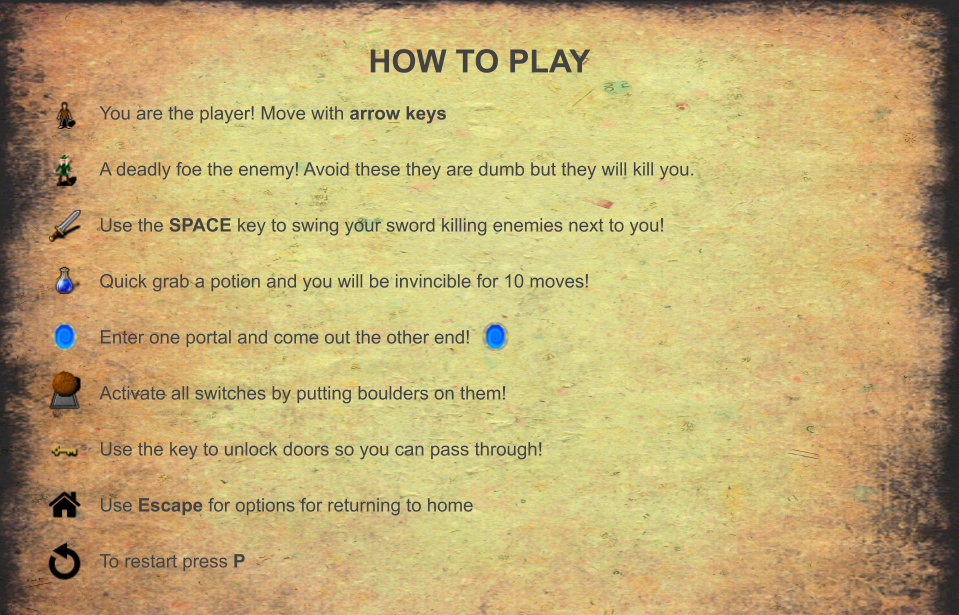
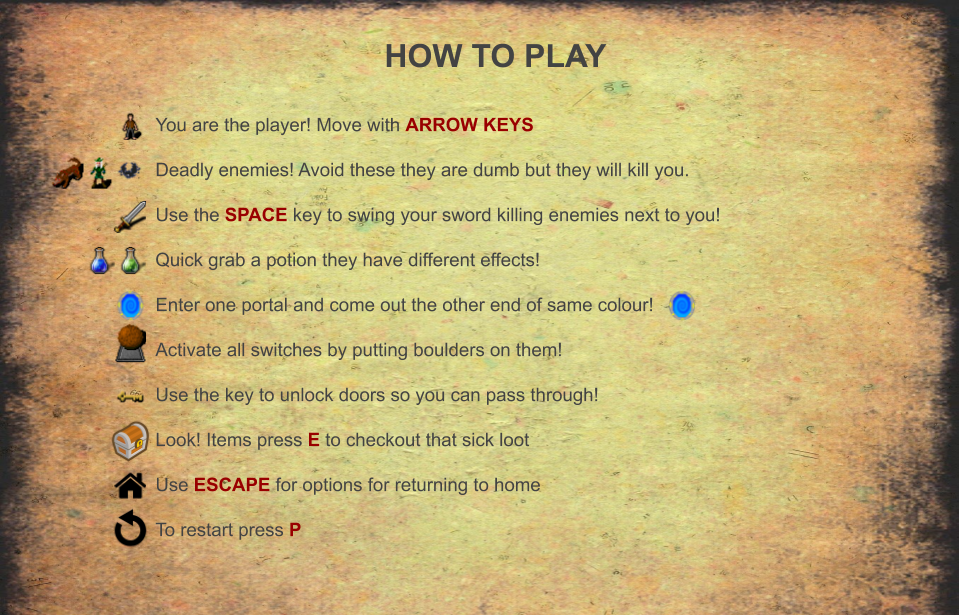
added a key game

diff --git a/src/unsw/dungeon/menu/StartMenu.java b/src/unsw/dungeon/menu/StartMenu.java
@@ -248,7 +248,40 @@ public class StartMenu extends Parent {
             dungeonApplication.setCurrentScene("boulders");
         });
 
-        
+        MenuButton btnKeysGame = new MenuButton("KEYS GAME");
+        btnKeysGame.setOnMouseClicked(event -> {
+            getChildren().add(menu0);
+
+            TranslateTransition tt = new TranslateTransition(Duration.seconds(0.25), menu3);
+            tt.setToX(menu3.getTranslateX() + offset);
+
+            TranslateTransition tt1 = new TranslateTransition(Duration.seconds(0.5), menu0);
+            tt1.setToX(menu3.getTranslateX());
+
+            tt.play();
+            tt1.play();
+
+            tt.setOnFinished(evt -> {
+                getChildren().remove(menu3);
+            });
+            
+            Scene scene = null;
+
+            try {
+                scene = dungeonApplication.createGame("keys");
+            } catch (IOException e) {
+                // TODO Auto-generated catch block
+                e.printStackTrace();
+            }
+            window.setScene(scene);
+            // System.out.println("Height is: " + window.heightProperty());
+            // System.out.println("Width is: " + window.widthProperty());
+            // window.setHeight(327.0);
+            // window.setWidth(272.0);
+            window.setHeight(551.0);
+            window.setWidth(700.0);
+            dungeonApplication.setCurrentScene("keys");
+        });
 
         MenuButton btnHowToPlay = new MenuButton("HOW TO PLAY");
         btnHowToPlay.setOnMouseClicked(event -> {
@@ -346,7 +379,7 @@ public class StartMenu extends Parent {
         menu0.getChildren().addAll(btnStart, btnHowToPlay, btnOptions, btnExit);
         menu1.getChildren().addAll(btnBack, btnSound, btnVideo);
         menu2.getChildren().addAll(btnBack2, btnTurnOn, btnTurnOff);
-        menu3.getChildren().addAll(btnBack3, btnSwordmanGame, btnHoundGame, btnBatGame, btnMazeGame, btnBouldersGame);
+        menu3.getChildren().addAll(btnBack3, btnSwordmanGame, btnHoundGame, btnBatGame, btnMazeGame, btnBouldersGame, btnKeysGame);
 
         getChildren().addAll(menu0);
     }

diff --git a/src/unsw/dungeon/DungeonApplication.java b/src/unsw/dungeon/DungeonApplication.java
@@ -107,7 +107,7 @@ public class DungeonApplication extends Application {
         DungeonControllerLoader dungeonLoader = null;
         switch (map){
             case "swordman":
-                dungeonLoader = new DungeonControllerLoader("testAll.json");
+                dungeonLoader = new DungeonControllerLoader("swordman.json");
                 break;
             case "hound":
                 dungeonLoader = new DungeonControllerLoader("hound.json");
@@ -120,6 +120,9 @@ public class DungeonApplication extends Application {
                 break;
             case "boulders":
                 dungeonLoader = new DungeonControllerLoader("boulders.json");
+                break;
+            case "keys":
+                dungeonLoader = new DungeonControllerLoader("testAll.json");
                 break;
         }
         
@@ -316,6 +319,10 @@ public class DungeonApplication extends Application {
             case "boulders":
                 window.setHeight(551.0);
                 window.setWidth(700.0);
+                break;
+            case "keys":
+                window.setHeight(551.0);
+                window.setWidth(592.0);
                 break;
         }
     }

diff --git a/src/unsw/dungeon/menu/GoalMenu.java b/src/unsw/dungeon/menu/GoalMenu.java
@@ -48,7 +48,7 @@ public class GoalMenu extends Parent {
 
         MenuButton btnStart = new MenuButton("START GAME");
         btnStart.setOnMouseClicked(event -> {
-            if (dungeonApplication.getCurrentScene().equals("boulders")) {
+            if (dungeonApplication.getCurrentScene().equals("boulders") || dungeonApplication.getCurrentScene().equals("keys")) {
                 window.setWidth(592.0);
             }
             dungeonApplication.goalMenuDisappear();

diff --git a/src/unsw/dungeon/Bat.java b/src/unsw/dungeon/Bat.java
@@ -2,8 +2,6 @@ package unsw.dungeon;
 
 public class Bat extends Enemy{
 
-    private Dungeon dungeon;
-
     public Bat(Dungeon dungeon, int x, int y) {
         super(dungeon, x, y);
     }
